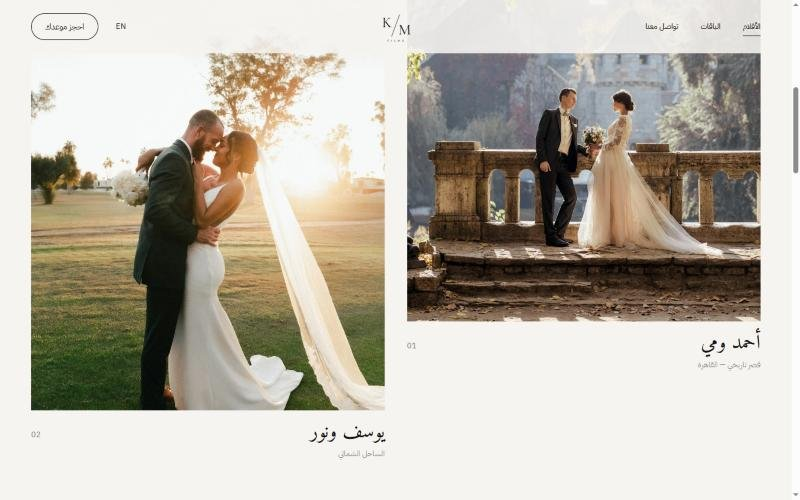
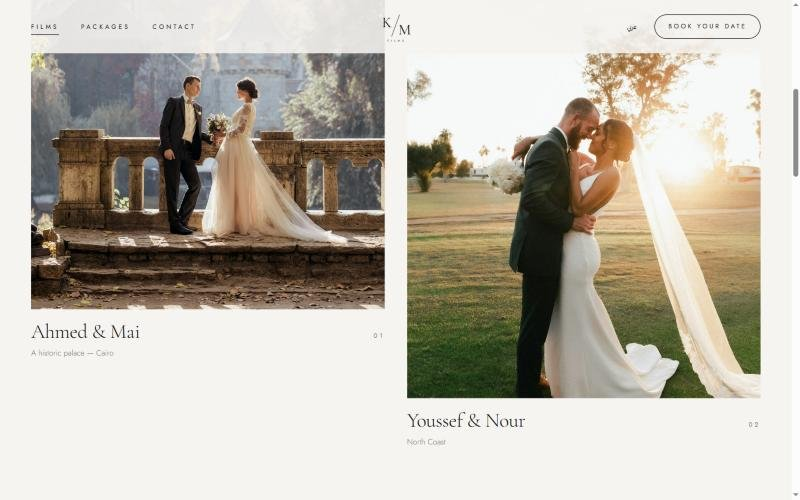
KM Films: English screenshots
Claude-Session: https://claude.ai/code/session_011tWg1kVMY71VvkYotxH7MS

diff --git a/data/content.ts b/data/content.ts
@@ -33,7 +33,7 @@ const workBase: { key: string; name: string; cat: WorkCat; url: string; img: str
   { key: "see", name: "SEE Elevators", cat: "Websites", url: "https://see.sa", img: "/img/work/see.jpg" },
   { key: "touchone", name: "Touch One", cat: "Websites", url: "https://touch-colors.com", img: "/img/work/touchone.jpg" },
   { key: "ansary", name: "Ansary", cat: "Websites", url: "https://car-rent.techflow1.com", img: "/img/work/ansary.jpg" },
-  { key: "kmfilms", name: "KM Films", cat: "Websites", url: "https://kmfilms.techflow1.com", img: "/img/work/kmfilms.jpg" },
+  { key: "kmfilms", name: "KM Films", cat: "Websites", url: "https://kmfilms.techflow1.com/en", img: "/img/work/kmfilms.jpg" },
   { key: "mal", name: "Mal & Aamal", cat: "Websites", url: "https://mal.techflow1.com", img: "/img/work/mal.jpg" },
   { key: "almadhi", name: "Al-Madhi Family", cat: "Websites", url: "https://almadhi.techflow1.com", img: "/img/work/almadhi.jpg" },
   { key: "techflow", name: "Tech Flow", cat: "Websites", url: "https://techflow1.com", img: "/img/work/techflow.jpg" },
